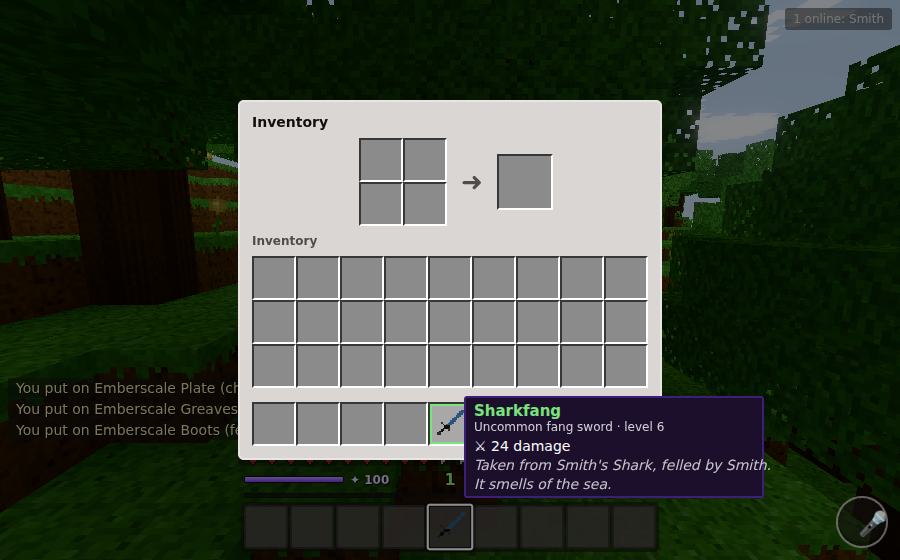
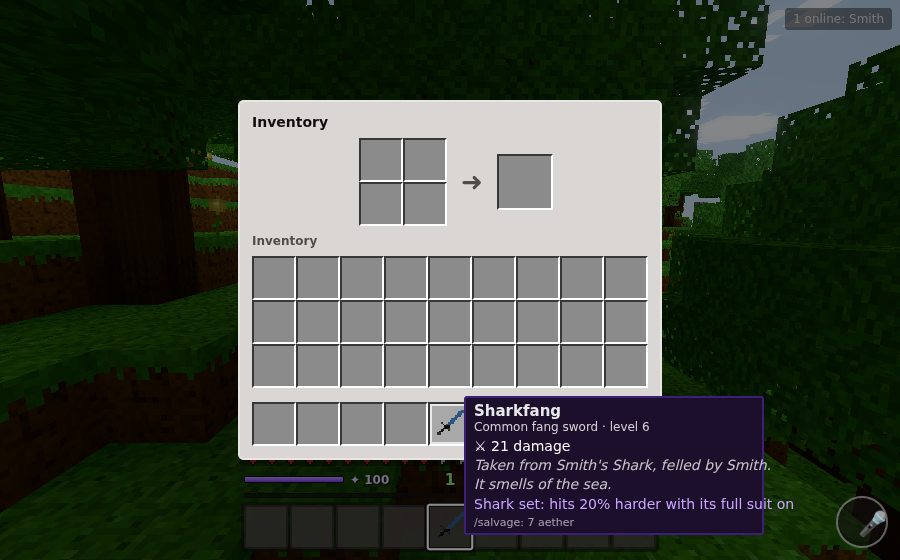
Creature gear: set bonuses and salvage for aether
Pieces from the same creature (by the same player) add up when worn together: 2 pieces give a
fifth more defence, 3 share every perk of the set, 4 add sturdy and make that creature's own
weapon hit a fifth harder. /salvage breaks the piece in hand down into aether by level and
rarity. Tooltips name the set and what salvaging gives.

Claude-Session: https://claude.ai/code/session_01HkY6Yjh9wVdAdnf2SLZkDX

Changed region(s): [[0.4978, 0.8804, 0.8711, 0.9714], [0.0, 0.6679, 0.28, 0.7893], [0.5289, 0.6982, 0.7467, 0.8196]]

diff --git a/packages/server/src/modules/vanilla/gear.ts b/packages/server/src/modules/vanilla/gear.ts
@@ -1,4 +1,4 @@
-import { GEAR_ITEM, PERK_LABEL, armourTotals, makeGear, rollCreatureLoot, summonTier, type GearKind, type GearMeta, type GearSlot, type ItemStack, type PerkId } from "@lfg/shared";
+import { GEAR_ITEM, PERK_LABEL, armourTotals, makeGear, rollCreatureLoot, salvageValue, summonTier, weaponDamage, type GearKind, type GearMeta, type GearSlot, type ItemStack, type PerkId } from "@lfg/shared";
 import type { Entity } from "../../entities";
 import type { ServerModule } from "../../kernel";
 import type { Player } from "../../player";
@@ -13,11 +13,15 @@ import type { SummonService } from "./summons";
  *   /gear lists what you wear; /gear off <slot> takes it off. Saved with the player.
  * - Armour blocks a share of most hits; perks resist elements, soften falls, let you breathe
  *   underwater, see at night, run faster. Weapons hit as hard as they say, and their element bites.
+ * - Sets: pieces from the same creature worn together add up (2, 3 and 4-piece bonuses).
+ * - Salvage: /salvage breaks the piece in your hand down into aether.
  * - Everyone sees what you wear (colours on your model).
  */
 export interface GearService {
   onHit(p: Player, target: Entity): void;
   worn(p: Player): Partial<Record<WornSlot, ItemStack>>;
+  /** How hard the held creature weapon hits, with set bonuses (undefined: not holding one). */
+  weaponDamage(p: Player): number | undefined;
 }
 type WornSlot = Exclude<GearSlot, "weapon">;
 const SLOTS: WornSlot[] = ["head", "chest", "legs", "feet", "charm"];
@@ -56,7 +60,13 @@ export const gear: ServerModule = {
       worn(p)[slot] = held;
       p.heldStack = before;
       p.selfDirty = true;
+      const setsBefore = armourTotals(metas(p).map((x, i) => (SLOTS[i] === slot ? before?.meta : x))).sets;
       api.tell(p, `You put on ${m.name} (${slot})${before?.meta ? `; ${before.meta.name} is in your hand` : ""}`);
+      // A set bonus newly earned.
+      for (const s of armourTotals(metas(p)).sets) {
+        const had = setsBefore.find((x) => x.key === s.key)?.bonuses.length ?? 0;
+        if (s.bonuses.length > had) api.tell(p, `✦ ${s.creature} set (${s.pieces} pieces): ${s.bonuses.slice(had).join("; ")}`);
+      }
       refresh(p);
     }, -5);
 
@@ -93,7 +103,12 @@ export const gear: ServerModule = {
       if (m.perks.includes("chilling")) { target.data.frozenUntil = Date.now() + 700; burst("#a8e0ff"); }
       if (m.perks.includes("shocking")) { api.damage(target, 4, { kind: "fire" }); burst("#fff27a"); }
     };
-    api.provide("gear", { onHit, worn } satisfies GearService);
+    const maxHit = () => Math.round(api.std.balance.player.health * api.std.balance.damage.maxHitShareOfHealth);
+    const heldWeaponDamage = (p: Player) => {
+      const m = p.heldStack?.meta;
+      return m?.slot === "weapon" ? weaponDamage(m, metas(p), maxHit()) : undefined;
+    };
+    api.provide("gear", { onHit, worn, weaponDamage: heldWeaponDamage } satisfies GearService);
 
     // Loot: a summoned creature that falls to a player may leave gear made from it.
     api.on("entity:death", ({ entity, source }) => {
@@ -141,7 +156,29 @@ export const gear: ServerModule = {
         }
         const lines = SLOTS.flatMap((s) => { const m = worn(p)[s]?.meta; return m ? [`${s}: ${describe(m)}`] : []; });
         const t = armourTotals(metas(p));
-        return lines.length ? [...lines, `Blocks ${Math.round(t.block * 100)}% of hits`].join("\n") : "You're not wearing any creature gear. Defeat creatures to find some.";
+        const sets = t.sets.map((s) => `${s.creature} set (${s.pieces} pieces): ${s.bonuses.join("; ")}`);
+        return lines.length ? [...lines, ...sets, `Blocks ${Math.round(t.block * 100)}% of hits`].join("\n") : "You're not wearing any creature gear. Defeat creatures to find some.";
+      },
+    });
+    // Salvage: the creature gear in your hand, broken down into aether.
+    api.command({
+      name: "salvage",
+      usage: "/salvage",
+      help: "Break the creature gear in your hand down into aether (more for rarer, higher-level pieces)",
+      admin: false,
+      run(p) {
+        if (!p) return "Players only";
+        const held = p.heldStack, m = held?.meta;
+        if (!held || !m) return "Hold a piece of creature gear to salvage it";
+        const prog = api.use<ProgressionService>("progression");
+        if (!prog) return "Nothing to salvage into here";
+        const value = salvageValue(m);
+        const got = prog.grant(p, value, `salvaged ${m.name}`);
+        if (got <= 0) return "Your aether is full: spend some first";
+        p.heldStack = null;
+        p.selfDirty = true;
+        api.sendNear(p.entity.x, p.entity.y, p.entity.z, 32, { t: "particles", x: p.entity.x - 0.5, y: p.entity.y + 1.2, z: p.entity.z - 0.5, color: "#b98cff", count: 14 });
+        return `${m.name} breaks down into ${Math.round(got)} aether${got < value ? ` (your aether is full; ${value - Math.round(got)} lost)` : ""}`;
       },
     });
     // For tools and tests: /loot <creature> makes a piece from a creature without a fight (admins).

diff --git a/packages/shared/src/loot.ts b/packages/shared/src/loot.ts
@@ -199,9 +199,54 @@ export function rollCreatureLoot(spec: SummonSpec, ctx: LootContext): { item: st
   return out;
 }
 
-/** What a set of worn armour adds up to: the share of a hit it blocks, and its perks. */
-export function armourTotals(worn: (GearMeta | undefined)[]): { block: number; defense: number; perks: Set<PerkId> } {
-  const defense = worn.reduce((s, g) => s + (g?.defense ?? 0), 0);
-  const perks = new Set<PerkId>(worn.flatMap((g) => g?.perks ?? []));
-  return { defense, block: Math.min(MAX_ARMOUR_BLOCK, defense * 0.025), perks };
+/**
+ * Set bonuses: pieces from the same creature (by name and who imagined it) worn together.
+ * - 2 pieces: their defence counts a fifth more.
+ * - 3 pieces: every perk any piece of the set carries works for all of it.
+ * - 4 pieces (a full suit, head to feet): sturdy, and a weapon from the same creature hits a
+ *   fifth harder.
+ */
+export interface GearSet { key: string; creature: string; pieces: number; bonuses: string[]; defense: number; perks: PerkId[]; weaponMult: number }
+export const SET_BONUS = { two: 0.2, weapon: 1.2 };
+
+/** Which set a piece belongs to: the creature and who imagined it (two players' dragons are two sets). */
+export function setKey(m: GearMeta): string {
+  return `${m.source.creature}|${m.source.summoner ?? ""}`;
+}
+
+export function gearSets(worn: (GearMeta | undefined)[]): GearSet[] {
+  const groups = new Map<string, GearMeta[]>();
+  for (const g of worn) if (g && g.slot !== "weapon") groups.set(setKey(g), [...(groups.get(setKey(g)) ?? []), g]);
+  const out: GearSet[] = [];
+  for (const [key, pieces] of groups) {
+    const n = pieces.length;
+    if (n < 2) continue;
+    const base = pieces.reduce((s, g) => s + (g.defense ?? 0), 0);
+    const armour = pieces.filter((g) => g.slot !== "charm").length;
+    const set: GearSet = { key, creature: pieces[0].source.creature, pieces: n, bonuses: [`2 pieces: +${SET_BONUS.two * 100}% defence`], defense: Math.round(base * SET_BONUS.two * 10) / 10, perks: [], weaponMult: 1 };
+    if (n >= 3) { set.perks = [...new Set(pieces.flatMap((g) => g.perks))]; set.bonuses.push("3 pieces: the set's perks work together"); }
+    if (armour >= 4) { set.perks = [...new Set([...set.perks, "sturdy" as PerkId])]; set.weaponMult = SET_BONUS.weapon; set.bonuses.push(`4 pieces: sturdy, and its own weapon hits ${Math.round((SET_BONUS.weapon - 1) * 100)}% harder`); }
+    out.push(set);
+  }
+  return out;
+}
+
+/** What a set of worn armour adds up to: the share of a hit it blocks, its perks and its sets. */
+export function armourTotals(worn: (GearMeta | undefined)[]): { block: number; defense: number; perks: Set<PerkId>; sets: GearSet[] } {
+  const sets = gearSets(worn);
+  const defense = worn.reduce((s, g) => s + (g?.defense ?? 0), 0) + sets.reduce((s, x) => s + x.defense, 0);
+  const perks = new Set<PerkId>([...worn.flatMap((g) => g?.perks ?? []), ...sets.flatMap((x) => x.perks)]);
+  return { defense, block: Math.min(MAX_ARMOUR_BLOCK, defense * 0.025), perks, sets };
+}
+
+/** A weapon's damage with what you wear: its own creature's full suit makes it hit harder. */
+export function weaponDamage(weapon: GearMeta, worn: (GearMeta | undefined)[], maxHit: number): number {
+  const set = gearSets(worn).find((s) => s.key === setKey(weapon));
+  return Math.min(maxHit, Math.round((weapon.damage ?? 0) * (set?.weaponMult ?? 1)));
+}
+
+/** Aether for salvaging a piece: more for higher levels and rarer pieces. */
+export const SALVAGE_RARITY: Record<Rarity, number> = { common: 1, uncommon: 1.5, rare: 2.5, epic: 4, legendary: 7 };
+export function salvageValue(m: GearMeta): number {
+  return Math.max(1, Math.round((2 + m.level * 0.8) * SALVAGE_RARITY[m.rarity]));
 }

diff --git a/packages/shared/test/loot.test.ts b/packages/shared/test/loot.test.ts
@@ -1,5 +1,5 @@
 import { describe, expect, it } from "vitest";
-import { DEFAULT_STANDARDS, armourTotals, kindsFor, makeGear, materialOf, mulberry32, perksFor, planCreature, rollCreatureLoot, type LootContext } from "../src";
+import { DEFAULT_STANDARDS, armourTotals, gearSets, salvageValue, weaponDamage, kindsFor, makeGear, materialOf, mulberry32, perksFor, planCreature, rollCreatureLoot, type LootContext } from "../src";
 
 const spec = (p: string) => planCreature(p, DEFAULT_STANDARDS).spec!;
 const ctx = (over: Partial<LootContext> = {}): LootContext => ({ tier: 2, playerLevel: 10, summoner: "Mira", slayer: "Rex", day: 12, rand: mulberry32(7), palette: DEFAULT_STANDARDS.art.palette as Record<string, string>, maxHit: 40, ...over });
@@ -63,6 +63,36 @@ describe("creature loot", () => {
 });
 
 describe("creature loot elements", () => {
+  it("adds up pieces from the same creature: 2, 3 and 4-piece set bonuses", () => {
+    const d = spec("an angry red dragon"), w = spec("an angry wolf");
+    const piece = (s: typeof d, k: string, over: Partial<LootContext> = {}) => makeGear(s, k as "helm", ctx(over), "rare").meta;
+    const helm = piece(d, "helm"), plate = piece(d, "plate"), legs = piece(d, "legs"), boots = piece(d, "boots");
+    expect(gearSets([helm, piece(w, "plate")])).toEqual([]);
+    // Someone else's red dragon is another set.
+    expect(gearSets([helm, piece(d, "plate", { summoner: "Ada" })])).toEqual([]);
+    const two = armourTotals([helm, plate]);
+    expect(two.sets[0].pieces).toBe(2);
+    expect(two.defense).toBeCloseTo((helm.defense! + plate.defense!) * 1.2, 0);
+    // Three: the set's perks for all; four: sturdy, and the dragon's own staff hits harder.
+    expect(armourTotals([helm, plate, legs]).sets[0].bonuses.length).toBe(2);
+    const full = armourTotals([helm, plate, legs, boots]);
+    expect(full.perks.has("sturdy")).toBe(true);
+    const staff = piece(d, "staff");
+    expect(weaponDamage(staff, [helm, plate, legs, boots], 999)).toBe(Math.round(staff.damage! * 1.2));
+    expect(weaponDamage(staff, [helm, plate], 999)).toBe(staff.damage);
+    expect(weaponDamage(piece(w, "sword"), [helm, plate, legs, boots], 999)).toBe(piece(w, "sword").damage);
+    // Never past one hit's cap.
+    expect(weaponDamage(staff, [helm, plate, legs, boots], 10)).toBe(10);
+  });
+
+  it("salvages for more aether the rarer and higher the piece", () => {
+    const d = spec("an angry wolf");
+    const low = makeGear(d, "helm", ctx({ tier: 1, playerLevel: 1 }), "common").meta;
+    const high = makeGear(d, "helm", ctx({ tier: 5, playerLevel: 40 }), "legendary").meta;
+    expect(salvageValue(low)).toBeGreaterThanOrEqual(1);
+    expect(salvageValue(high)).toBeGreaterThan(salvageValue(low) * 10);
+  });
+
   it("only elemental creatures give elemental gear", () => {
     expect(perksFor(planCreature("a shark", DEFAULT_STANDARDS).spec!, "sword")).not.toContain("burning");
     expect(perksFor(planCreature("an angry wolf", DEFAULT_STANDARDS).spec!, "sword")).toEqual([]);

diff --git a/packages/server/test/gear.test.ts b/packages/server/test/gear.test.ts
@@ -65,6 +65,9 @@ describe("creature gear", () => {
     const fire = game.kernel.emit("entity:damage", { entity: p.entity, amount: 20, source: { kind: "fire" }, cancelled: false });
     expect(fire.amount).toBeLessThan(melee.amount);
     expect(await say("/gear")).toMatch(/Blocks \d+% of hits/);
+    // Two pieces of the same dragon: a set.
+    expect(await say("/gear")).toMatch(/set \(2 pieces\): 2 pieces: \+20% defence/);
+    expect(JSON.stringify(c.messages.slice(-40))).toMatch(/set \(2 pieces\)/);
     // Taken off, it's back in the inventory.
     expect(await say("/gear off head")).toMatch(/Took off/);
     expect((game.kernel.services.get("gear")!.value as GearService).worn(p).head).toBeUndefined();
@@ -83,6 +86,21 @@ describe("creature gear", () => {
     expect(drops.length).toBeGreaterThanOrEqual(2);
     expect(drops.length + before).toBeGreaterThan(before);
     expect(drops[0].meta!.lore[0]).toMatch(/Mira's .*Wolf, felled by Smith/);
+  }, 30000);
+
+  it("salvages the piece in hand into aether", async () => {
+    const p = player();
+    expect(await say("/loot an angry wolf helm")).toMatch(/Helm/);
+    p.selected = p.hotbar.findIndex((s) => s?.meta?.name.includes("Helm"));
+    const prog = game.kernel.services.get("progression")!.value as { hud(p: unknown): { aether: number } };
+    const before = prog.hud(p).aether;
+    // Spend some first, so there's room for what it's worth.
+    expect((game.kernel.services.get("progression")!.value as { spend(p: unknown, n: number): boolean }).spend(p, Math.min(before, 30))).toBe(true);
+    const mid = prog.hud(p).aether;
+    expect(await say("/salvage")).toMatch(/breaks down into \d+ aether/);
+    expect(prog.hud(p).aether).toBeGreaterThan(mid);
+    expect(p.heldStack).toBeNull();
+    expect(await say("/salvage")).toMatch(/Hold a piece/);
   }, 30000);
 
   it("keeps what you wear when you come back", async () => {

diff --git a/packages/client/src/ui.ts b/packages/client/src/ui.ts
@@ -1,5 +1,5 @@
 import type { VoiceMode } from "./voice";
-import { TIER_NAMES, type FriendHud, type GameMode, type ItemStack, type BuffHud, type ScrollHud, type ProgressHud, type Registry, type RitualHud, type Slot, type WindowSnapshot, type WorldEventNotice, type ScenarioHud, type ServerMessage, PERK_LABEL, RARITY_COLOR, RACE_ITEMS } from "@lfg/shared";
+import { TIER_NAMES, type FriendHud, type GameMode, type ItemStack, type BuffHud, type ScrollHud, type ProgressHud, type Registry, type RitualHud, type Slot, type WindowSnapshot, type WorldEventNotice, type ScenarioHud, type ServerMessage, PERK_LABEL, RARITY_COLOR, RACE_ITEMS, SET_BONUS, salvageValue } from "@lfg/shared";
 import type { Atlas } from "./atlas";
 
 export interface SelfState {
@@ -858,7 +858,10 @@ export class UI {
       if (m.damage) el("div", "tt-stat", this.tooltipEl, `⚔ ${m.damage} damage`);
       for (const k of m.perks) el("div", "tt-perk", this.tooltipEl, `✦ ${PERK_LABEL[k]}`);
       for (const l of m.lore) el("div", "tt-lore", this.tooltipEl, l);
-      if (m.slot !== "weapon") el("div", "tt-hint", this.tooltipEl, "Right-click with it in hand to wear it");
+      el("div", "tt-set", this.tooltipEl, m.slot === "weapon"
+        ? `${m.source.creature} set: hits ${Math.round((SET_BONUS.weapon - 1) * 100)}% harder with its full suit on`
+        : `${m.source.creature} set: 2, 3 and 4 pieces worn together give bonuses`);
+      el("div", "tt-hint", this.tooltipEl, `${m.slot !== "weapon" ? "Right-click with it in hand to wear it · " : ""}/salvage: ${salvageValue(m)} aether`);
       return;
     }
     let text = def.displayName;

diff --git a/packages/server/src/modules/vanilla/progression.ts b/packages/server/src/modules/vanilla/progression.ts
@@ -68,6 +68,8 @@ export interface ProgressionService {
   estimate(p: Player, text: string): CastEstimate | null;
   /** Spend aether on something other than a cast (inscribing a scroll). False if there isn't enough. */
   spend(p: Player, aether: number): boolean;
+  /** Give aether (salvage, rewards), up to the most a player can hold. Returns how much was added. */
+  grant(p: Player, aether: number, reason: string): number;
   /** Summary of a player's progress (for the HUD and outside tools). */
   hud(p: Player): ProgressHud;
 }
@@ -185,6 +187,15 @@ export const progression: ServerModule = {
         send(p);
       },
       hud,
+      grant(p, aether, reason) {
+        const s = state(p);
+        const add = Math.max(0, Math.min(aether, pr().aether.max - s.aether));
+        if (add <= 0) return 0;
+        s.aether += add;
+        api.tell(p, `+${Math.round(add)} aether (${reason})`);
+        send(p);
+        return add;
+      },
       spend(p, aether) {
         const s = state(p);
         if (s.aether + 1e-9 < aether) return false;

diff --git a/packages/server/src/modules/vanilla/combat.ts b/packages/server/src/modules/vanilla/combat.ts
@@ -29,7 +29,7 @@ export const combat: ServerModule = {
       if (victim && !pvpOn()) return;
       const held = p.heldStack ? reg.itemById(p.heldStack.item) : undefined;
       // Creature gear hits as hard as it says (and adds its element, below).
-      let dmg = p.heldStack?.meta?.damage ?? meleeDamage(held);
+      let dmg = api.use<GearService>("gear")?.weaponDamage(p) ?? p.heldStack?.meta?.damage ?? meleeDamage(held);
       // Falling hit (jump attack) deals 50% more, like Minecraft's critical hit.
       const crit = !p.entity.body.onGround && !p.flying && p.entity.body.vy <= 0;
       if (crit) dmg = Math.round(dmg * 1.5);

diff --git a/packages/client/src/style.css b/packages/client/src/style.css
@@ -310,4 +310,5 @@ button:disabled { opacity: 0.6; cursor: wait; }
 .tooltip .tt-stat { color: #fff; }
 .tooltip .tt-perk { color: #c9b6ff; }
 .tooltip .tt-lore { font-style: italic; opacity: 0.75; max-width: 280px; margin-top: 3px; }
+.tooltip .tt-set { color: #c9a6ff; margin-top: 4px; max-width: 280px; }
 .tooltip .tt-hint { opacity: 0.6; font-size: 11px; margin-top: 4px; }

diff --git a/docs/CREATURE-LOOT.md b/docs/CREATURE-LOOT.md
@@ -72,6 +72,18 @@ rolled with the level tipping the odds:
 
 The agent writes richer lore later, the same way it designs creatures.
 
+**Sets.** Pieces from the same creature, imagined by the same player, add up when worn together:
+
+| Pieces | Bonus |
+| --- | --- |
+| 2 | +20% defence from the set |
+| 3 | every perk of the set works for all of it |
+| 4 (head to feet) | sturdy, and that creature's own weapon hits 20% harder (never past one hit's cap) |
+
+**Salvage.** `/salvage` breaks the piece in your hand down into aether:
+(2 + level × 0.8) × 1 (common), 1.5 (uncommon), 2.5 (rare), 4 (epic) or 7 (legendary). It needs
+room in your aether to take it.
+
 **Wearing it.** Right-click with a piece in hand to put it on (what you wore goes back in your
 hand). `/gear` shows what you wear and your totals; `/gear off <slot>` takes a piece off. Gear is
 saved with the player and can be gifted (`/gift`) like anything else.
@@ -95,6 +107,6 @@ saved with the player and can be gifted (`/gift`) like anything else.
    - worn armour on the player models (yours in third person, and everyone else's).
 4. **Later:**
    - the designer agent writes lore and can design a piece's look as a shape;
-   - set bonuses for a full set from one creature;
-   - salvaging gear for aether;
+   - set bonuses for a full set from one creature (done);
+   - salvaging gear for aether (done);
    - trading.

diff --git a/README.md b/README.md
@@ -357,6 +357,13 @@ world event:
   - **Wearing it:** right-click with a piece in hand to put it on; everyone sees it on you.
     Armour blocks a share of hits (up to 60% for a full set). `/gear` lists what you wear;
     `/gear off <slot>` takes a piece off. Gear is saved with you, and can be gifted.
+  - **Sets:** pieces from the same creature (the same player's red dragon) add up when worn
+    together:
+    - 2 pieces: a fifth more defence;
+    - 3 pieces: every perk of the set works for all of it;
+    - 4 pieces (head to feet): sturdy, and that creature's own weapon hits a fifth harder.
+  - **Salvage:** `/salvage` breaks the piece in your hand down into aether: more for rarer,
+    higher-level pieces (a common level 5 piece gives about 6, a legendary level 25 about 150).
   - **Testing:** `/loot <creature> [kind]` (admins) makes a piece; `node scripts/e2e-gear.mjs`
     wears a dragon set.
 
